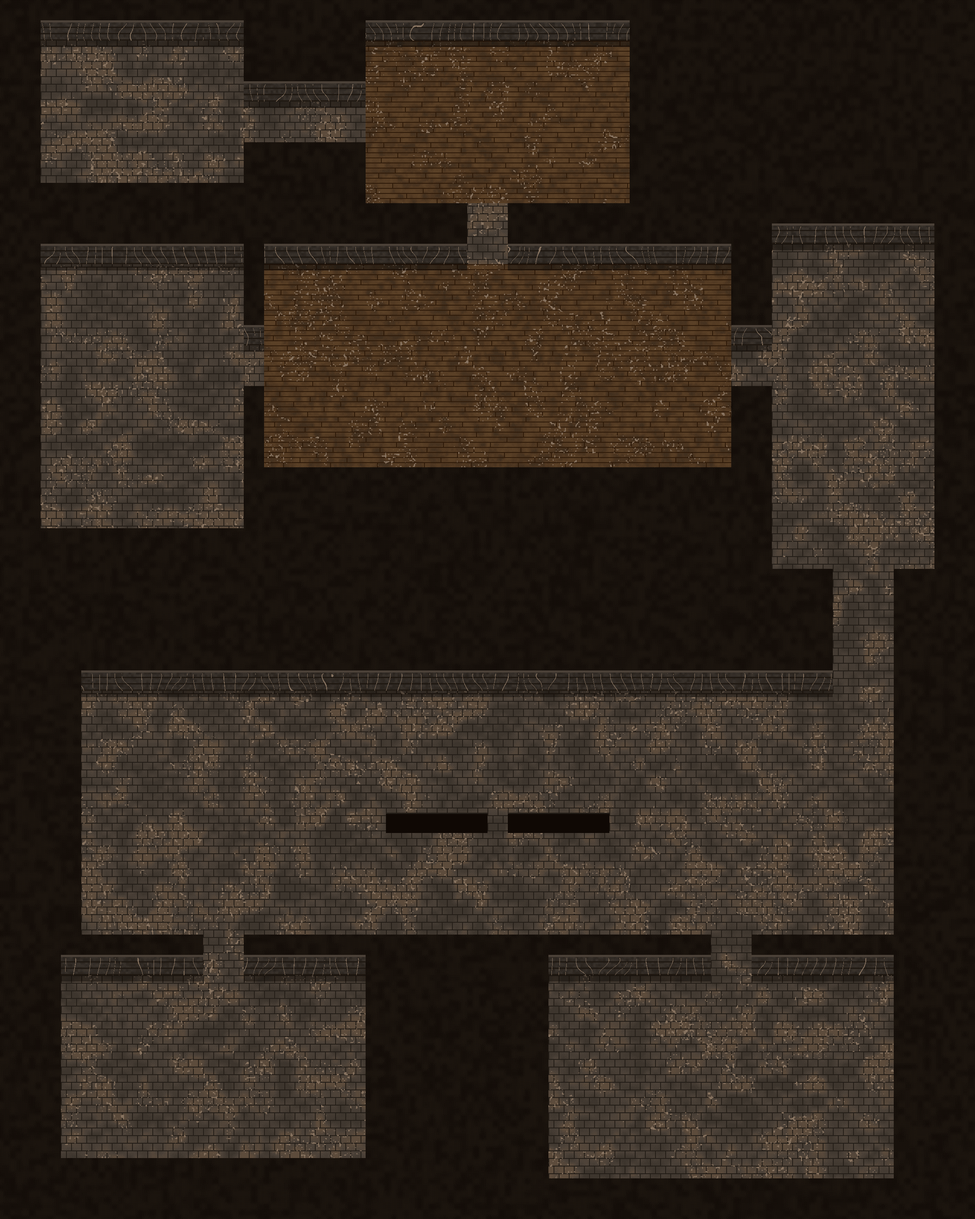
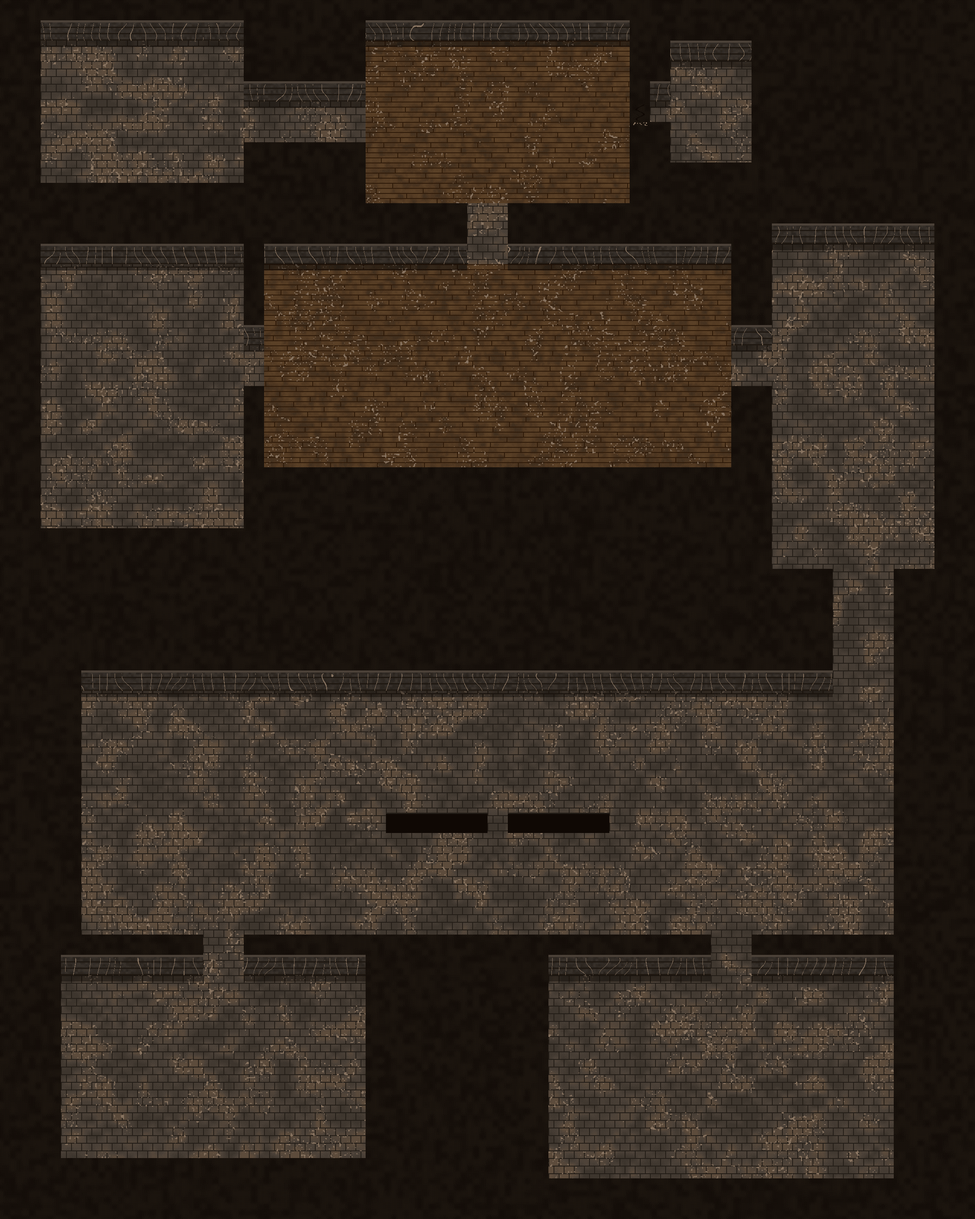
던전 이야기 장치 + 보스방 2페이즈 + 비밀/보상 (team ch1): six dark notes (order ledger with the hero's mark, hair cloth, warm mannequin, scratching cocoon, the carved name, Arachne's last record), a cracked wall (secret_wall) opening a hidden room with a heart piece, champion drops (map object loot), the boss room t
Claude-Session: https://claude.ai/code/session_011TjkMwr4fUrpUSjUtodMij

Changed region(s): [[0.6562, 0.0312, 0.7812, 0.1562]]

diff --git a/test128/world.js b/test128/world.js
@@ -197,6 +197,7 @@
     for (const o of (j.objects || [])) if (o.near && byId[o.near[0]]) { const r = byId[o.near[0]]; o.x = r.x + o.near[1]; o.y = r.y + o.near[2]; }
     for (const o of (j.objects || [])) if (!['spawn', 'champion', 'mark'].includes(o.type)) m.objs.push(Object.assign({}, o, { tx: o.x, ty: o.y, x: (o.x + .5) * T, y: (o.y + .5) * T }));
     for (const o of m.objs) if (['chest', 'sign', 'heal', 'waystone', 'npc', 'door'].includes(o.type) && !o.walk && !o.wander) m.solidG[Math.floor(o.ty) * j.w + Math.floor(o.tx)] = 1;
+    for (const o of m.objs) if (o.type === 'secret_wall') m.solidG[Math.floor(o.ty) * j.w + Math.floor(o.tx)] = SAVE.flags[o.flag] ? 0 : 1; // 숨은 방: a cracked wall tile
     for (const h of j.hds || []) { const im = HDIMG[h.ground], A = h.decoArt; if (!A || !im) continue; const hw = im.width / h.D / T, hh = im.height / h.D / T; // hd deco art (decoArt {legend char or deco name: [{img, ax, ay, flip}]}):
       for (const d of m.decos) { const vs = A[(j.ground[d.ty] || '')[d.tx]] || A[d.spr]; if (!vs || !vs.length || d.tx < h.gx || d.ty < h.gy || d.tx >= h.gx + hw || d.ty >= h.gy + hh) continue; // the tile deco keeps its rules (solid, breakable, pillar shade)
         const f = n => { const v = Math.sin(d.tx * 127.1 + d.ty * 311.7 + n * 74.7) * 43758.5453; return v - Math.floor(v); }, v = vs[Math.floor(f(1) * vs.length)]; // and only its picture changes: variant, flip, jitter per tile
@@ -393,6 +394,14 @@
           for (let x = x0; x <= x1; x++) for (let j = 0; j < 2; j++) { const hsh = Math.sin((x * 12.9 + y * 78.2 + j * 37.7)) * 43758.5, f = hsh - Math.floor(hsh), u = (f * T + ph * (1 + f)) % T, a = Math.sin(S.t * 1.7 + f * 6.3);
             if (a < .2) continue; const [sx, sy2] = W2S((h.gx + x) * T + u, (h.gy + y) * T + 3 + j * 8 + f * 3); ctx.fillRect(Math.round(sx), Math.round(sy2), Math.round((2 + 3 * a) * k), Math.max(1, Math.round(k * .5))); } }
         ctx.restore(); }
+      if (h.phase2) { const b = S.bossRef, on = b && !b.dead && b.phase === 2 ? 1 : 0; h._p2 = (h._p2 || 0) + (on - (h._p2 || 0)) * .025; const p = h._p2; // 보스 2페이즈: the room turns (red threads close in, light goes red, cocoons sway overhead)
+        if (p > .01) { const P = h.phase2; ctx.save(); ctx.globalCompositeOperation = 'multiply'; ctx.fillStyle = `rgba(255,${Math.round(255 - 120 * p)},${Math.round(255 - 110 * p)},1)`; ctx.fillRect(v.ox, v.oy, (EW + 1) * v.k, (EH + 1) * v.k); ctx.restore();
+          ctx.save(); ctx.lineCap = 'round'; for (const [x1, y1, x2, y2, sag] of P.threads || []) { const [ax, ay] = W2S((h.gx + x1) * T, (h.gy + y1) * T), [bx, by] = W2S((h.gx + x2) * T, (h.gy + y2) * T), sw = Math.sin(S.t * 2 + x1) * k;
+            ctx.strokeStyle = `rgba(220,40,60,${.75 * p})`; ctx.lineWidth = Math.max(1, k * .5); ctx.beginPath(); ctx.moveTo(ax, ay); ctx.quadraticCurveTo((ax + bx) / 2 + sw, (ay + by) / 2 + (sag || 1) * T * k / 2, bx, by); ctx.stroke(); }
+          for (const [x, y] of P.cocoons || []) { const [sx, sy] = W2S((h.gx + x) * T, (h.gy + y) * T), sw = Math.sin(S.t * 1.7 + x * 3) * 2 * k, top = sy - 60 * k * p; // hanging cocoons drop into view
+            ctx.strokeStyle = `rgba(230,220,230,${.6 * p})`; ctx.lineWidth = Math.max(1, k / 3); ctx.beginPath(); ctx.moveTo(sx, v.oy); ctx.lineTo(sx + sw, top); ctx.stroke();
+            ctx.fillStyle = `rgba(214,200,190,${p})`; ctx.beginPath(); ctx.ellipse(sx + sw, top + 9 * k, 5 * k, 10 * k, 0, 0, TAU); ctx.fill(); ctx.fillStyle = `rgba(150,30,45,${.5 * p})`; ctx.fillRect(sx + sw - k, top + 4 * k, 2 * k, 12 * k); }
+          ctx.restore(); } }
       for (const [x0, y0, sz] of h.smoke || []) for (let i = 0; i < 9; i++) { // 연기 (code, not baked): puffs rise, drift with the wind, grow and fade
         const ph = (S.t * .16 + i / 9 + x0 * .37) % 1, wx = (h.gx + x0) * T + ph * 14 * sz + Math.sin(S.t * .9 + i * 2.1) * 2 * sz, wy = (h.gy + y0) * T - ph * 46 * sz, [sx, sy] = W2S(wx, wy);
         ctx.fillStyle = `rgba(${74 - ph * 20 | 0},${66 - ph * 18 | 0},${72 - ph * 16 | 0},${(.42 * Math.min(1, ph * 6) * (1 - ph)).toFixed(3)})`; ctx.beginPath(); ctx.arc(sx, sy, (2.5 + ph * 7) * sz * k, 0, TAU); ctx.fill(); }
@@ -415,7 +424,7 @@
   function after(t, f) { S.timers.push({ t, f }); }
   function shake(v) { const g = window.__game; if (g && g.shakeScale) v = g.shakeScale(v); S.shake = Math.max(S.shake, v); } // [hitfeel] capped ≤3px + '화면 흔들림' option (game.template.html)
   function addFx(type, x, y, o = {}) { S.fx.push(Object.assign({ type, x, y, t: 0, life: o.life || 0.5 }, o)); }
-  const NAMES = { potion: '물약', heart_piece: '하트 조각', spirit_drop: '정령의 이슬', m_hardwood: '단단한 목재', m_a1_shared: '숲의 정수', bomb: '폭탄', m_spore: '독 포자',
+  const NAMES = { potion: '물약', antidote: '해독초', heart_piece: '하트 조각', spirit_drop: '정령의 이슬', m_hardwood: '단단한 목재', m_a1_shared: '숲의 정수', bomb: '폭탄', m_spore: '독 포자',
     m_rabbit_horn: '토끼 뿔', m_wasp_sting: '말벌 독침', m_boar_hide: '멧돼지 가죽', m_pumpkin_vine: '호박 덩굴', m_forest_gel: '숲 젤리', m_acorn_shell: '도토리 껍질', m_sprout_wood: '새싹 목재' };
   const itemName = id => NAMES[id] || id;
   function giveLoot(list) { const g = window.__game; const names = [];
@@ -493,6 +502,7 @@
     if (!m.noDrop && D.mat && (D.champion || D.boss || Math.random() < .45)) { const n = D.matN || 1; giveLoot([[D.mat, n]]); } // shown in the pickup feed (right), not as text over the fight
     if (!D.boss && !D.champion && !m.noDrop && Math.random() < POT.heartDrop) S.fx.push({ type: 'heart', x: m.x, y: m.y, t: 0, life: 8 });
     if (m.flag) { SAVE.flags[m.flag] = true; save(); }
+    if (m.loot && !m.noDrop) { const got = giveLoot(m.loot); if (got) banner('얻었다: ' + got, 2); }
     if (D.champion) { banner('챔피언 격파 — ' + D.name + '!', 2.2); jingle(); const L = (M().links || {}).boss_door || {}, left = (L.needFlags || ['champ_boar', 'champ_wasp']).filter(f => !SAVE.flags[f]).length;
       after(2.3, () => msg(left ? '남은 챔피언: ' + left + ' — 모두 쓰러뜨리면 ' + (L.openText || '골렘의 방이 열린다') : (L.doneText || '숲의 두 우두머리를 쓰러뜨렸다! 신전 B2의 봉인된 문이 열린다.'), 3.5)); } // per-dungeon text (links.boss_door)
     if (D.boss) bossDefeated(m);
@@ -546,7 +556,7 @@
       S.nodeArmed = false; S.nearNode = null;
       for (const o of (m.objects || [])) {
         if (o.type === 'spawn') { o.timer = 0; const mm = spawn(o.mob, (o.x + .5) * m.T, (o.y + .5) * m.T); if (mm) { mm.spawnRef = o; o.mob = mm; } }
-        if (o.type === 'champion' && !SAVE.flags[o.id]) spawn(o.mob, (o.x + .5) * m.T, (o.y + .5) * m.T, { flag: o.id });
+        if (o.type === 'champion' && !SAVE.flags[o.id]) spawn(o.mob, (o.x + .5) * m.T, (o.y + .5) * m.T, { flag: o.id, loot: o.loot }); // o.loot = the champion's drop (map data)
       }
       if (m.boss && !SAVE.flags[m.boss.flag]) { const b = spawn(m.boss.kind, m.boss.x * m.T, m.boss.y * m.T, { flag: m.boss.flag }); S.bossRef = b; S.engaged = b; if (m.boss.intro) S.introT = m.boss.intro; playScene('boss_pre:' + (m.boss.id || m.boss.kind), (m.boss.intro || 0) + .6); }
       if (m.boss && SAVE.flags[m.boss.flag]) addWarp(m);
@@ -848,6 +858,7 @@
         if ((o.shop || o.forge) && plain && window.__game && (window.__game.openForge || window.__game.openShop)) { talkAs(o, text, { choices: [{ t: o.forge ? '강화·제작' : '물건을 본다', f: () => openTrade(o) }, { t: '그만둔다' }] }); return; } // 대사 먼저, 고르면 가게 // Felt: 롬 = 대장간(강화·제작), 세라·벤 = 상점 — quest talk comes first
         if (!o.anim && o.main && !/^[^\s:()「」]{1,8}: /m.test(text)) { S.dialog = { text, name: o.name, role: o.role, por: o.portrait || o.art || o.id }; return; } talkAs(o, text); return; }
       if (o.type === 'clue') { clue(o); return; }
+      if (o.type === 'secret_wall') { if (!SAVE.flags[o.flag]) { SAVE.flags[o.flag] = true; save(); m.solidG[o.ty * m.w + o.tx] = 0; shake(4); sfx('impact', .8); for (let i = 0; i < 14; i++) addFx('dust', o.x + (Math.random() - .5) * 16, o.y + (Math.random() - .5) * 10, { life: .6 }); banner(o.name || '숨겨진 길이 드러났다', 2); } else S.dialog = { text: o.textDone || '무너진 벽 너머로 좁은 방이 보인다.' }; return; }
       if (o.type === 'door') { // town B building doors: shops open the shop UI, the inn heals, others show their sign
         const g = window.__game;
         if ((o.shop || o.forge) && openTrade(o)) { S.door = o.id; return; }
@@ -948,6 +959,7 @@
     for (const d of m.decos) if (!d.broken && !d.hd && d.x > cx - 40 && d.x < cx + EW + 40 && d.y > cy - 10 && d.y < cy + EH + 70) list.push({ y: d.y, f: () => { const gr = gradeAt(m, d.x, d.y); drawSpr(g, d.spr, d.x, d.y + 1, gr ? { mode: gr } : {}); } });
     for (const o of m.objs) {
       if (o.type === 'chest') list.push({ y: o.y + 6, f: () => drawSpr(g, SAVE.chests[o.id] ? 'chest_open' : 'chest', o.x, o.y + 7) });
+      if (o.type === 'secret_wall' && SAVE.flags[o.flag]) list.push({ y: o.y - 9, f: () => { g.fillStyle = '#0b0806'; g.fillRect(o.x - 7, o.y - 9, 14, 17); g.fillStyle = '#3e362e'; for (const [dx, dy] of [[-7, 6], [-3, 7], [4, 6], [6, 7], [0, 8]]) g.fillRect(o.x + dx, o.y + dy, 2, 1); } }); // the broken wall: a dark gap + rubble
       if (o.type === 'sign') list.push({ y: o.y + 6, f: () => drawSpr(g, 'sign', o.x, o.y + 8) });
       if (o.type === 'heal') list.push({ y: o.y + 6, f: () => drawBench(g, o) });
       if (o.type === 'door_deco') list.push({ y: o.y - 8, f: () => drawSpr(g, o.sprite, o.x, o.y + 8) });
